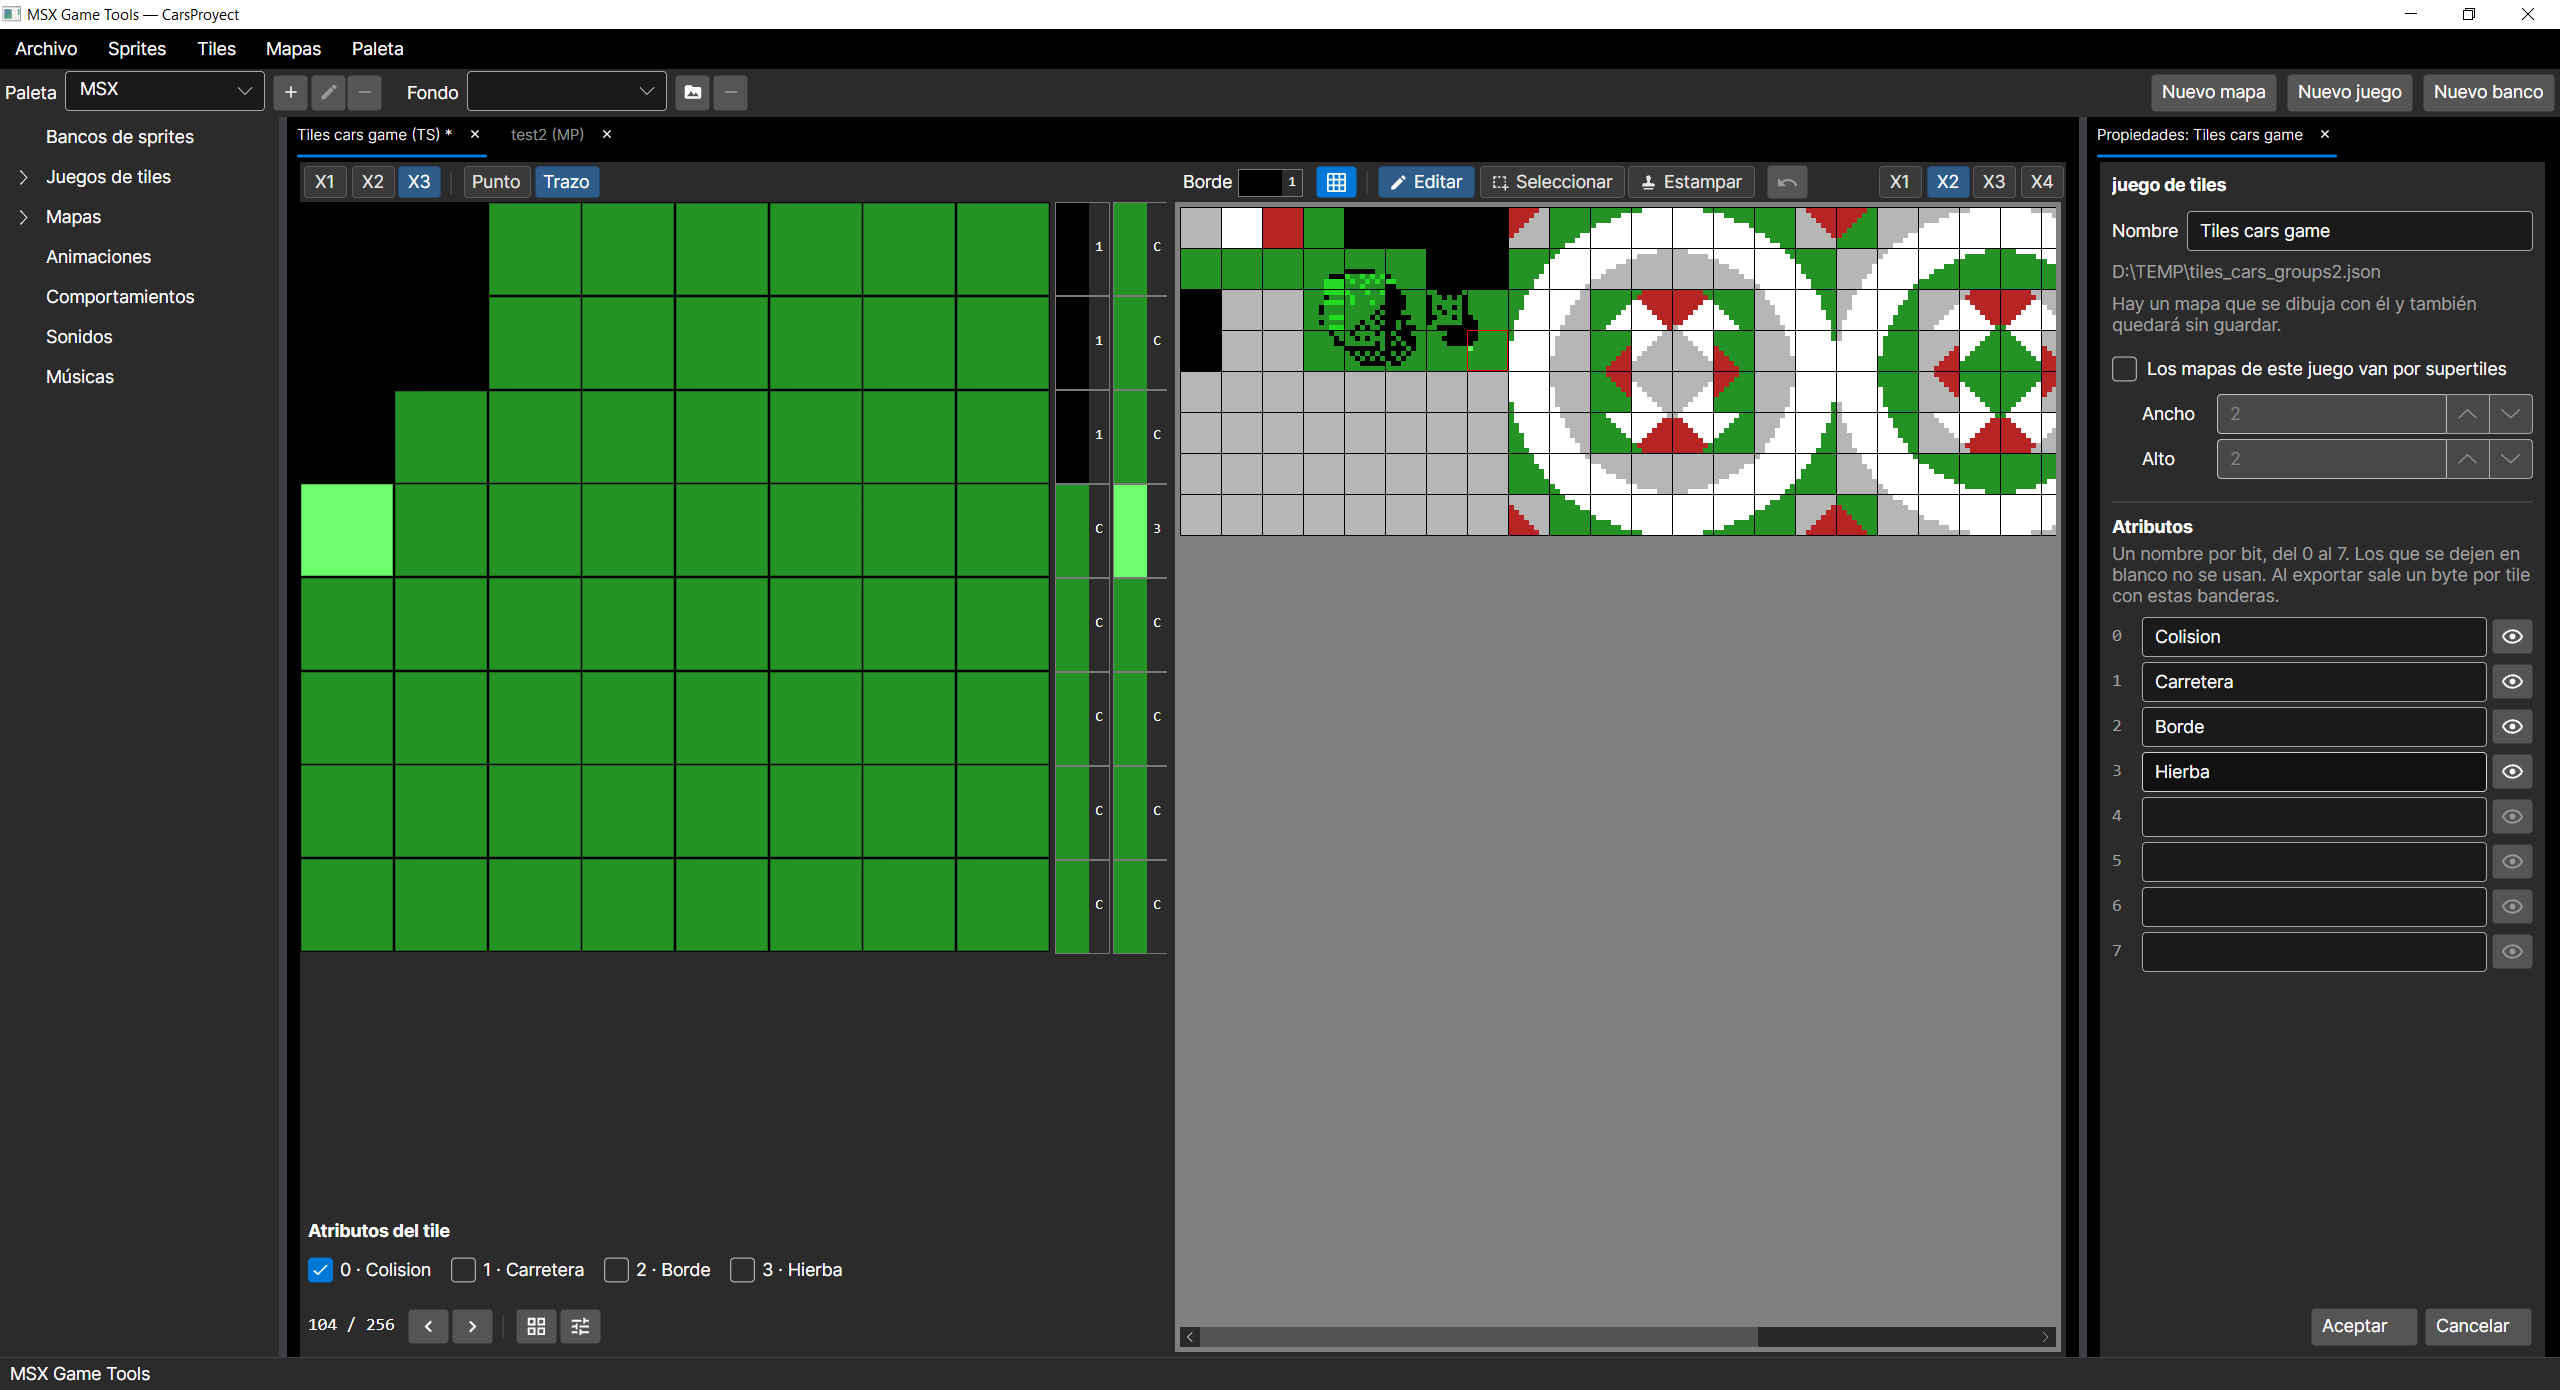
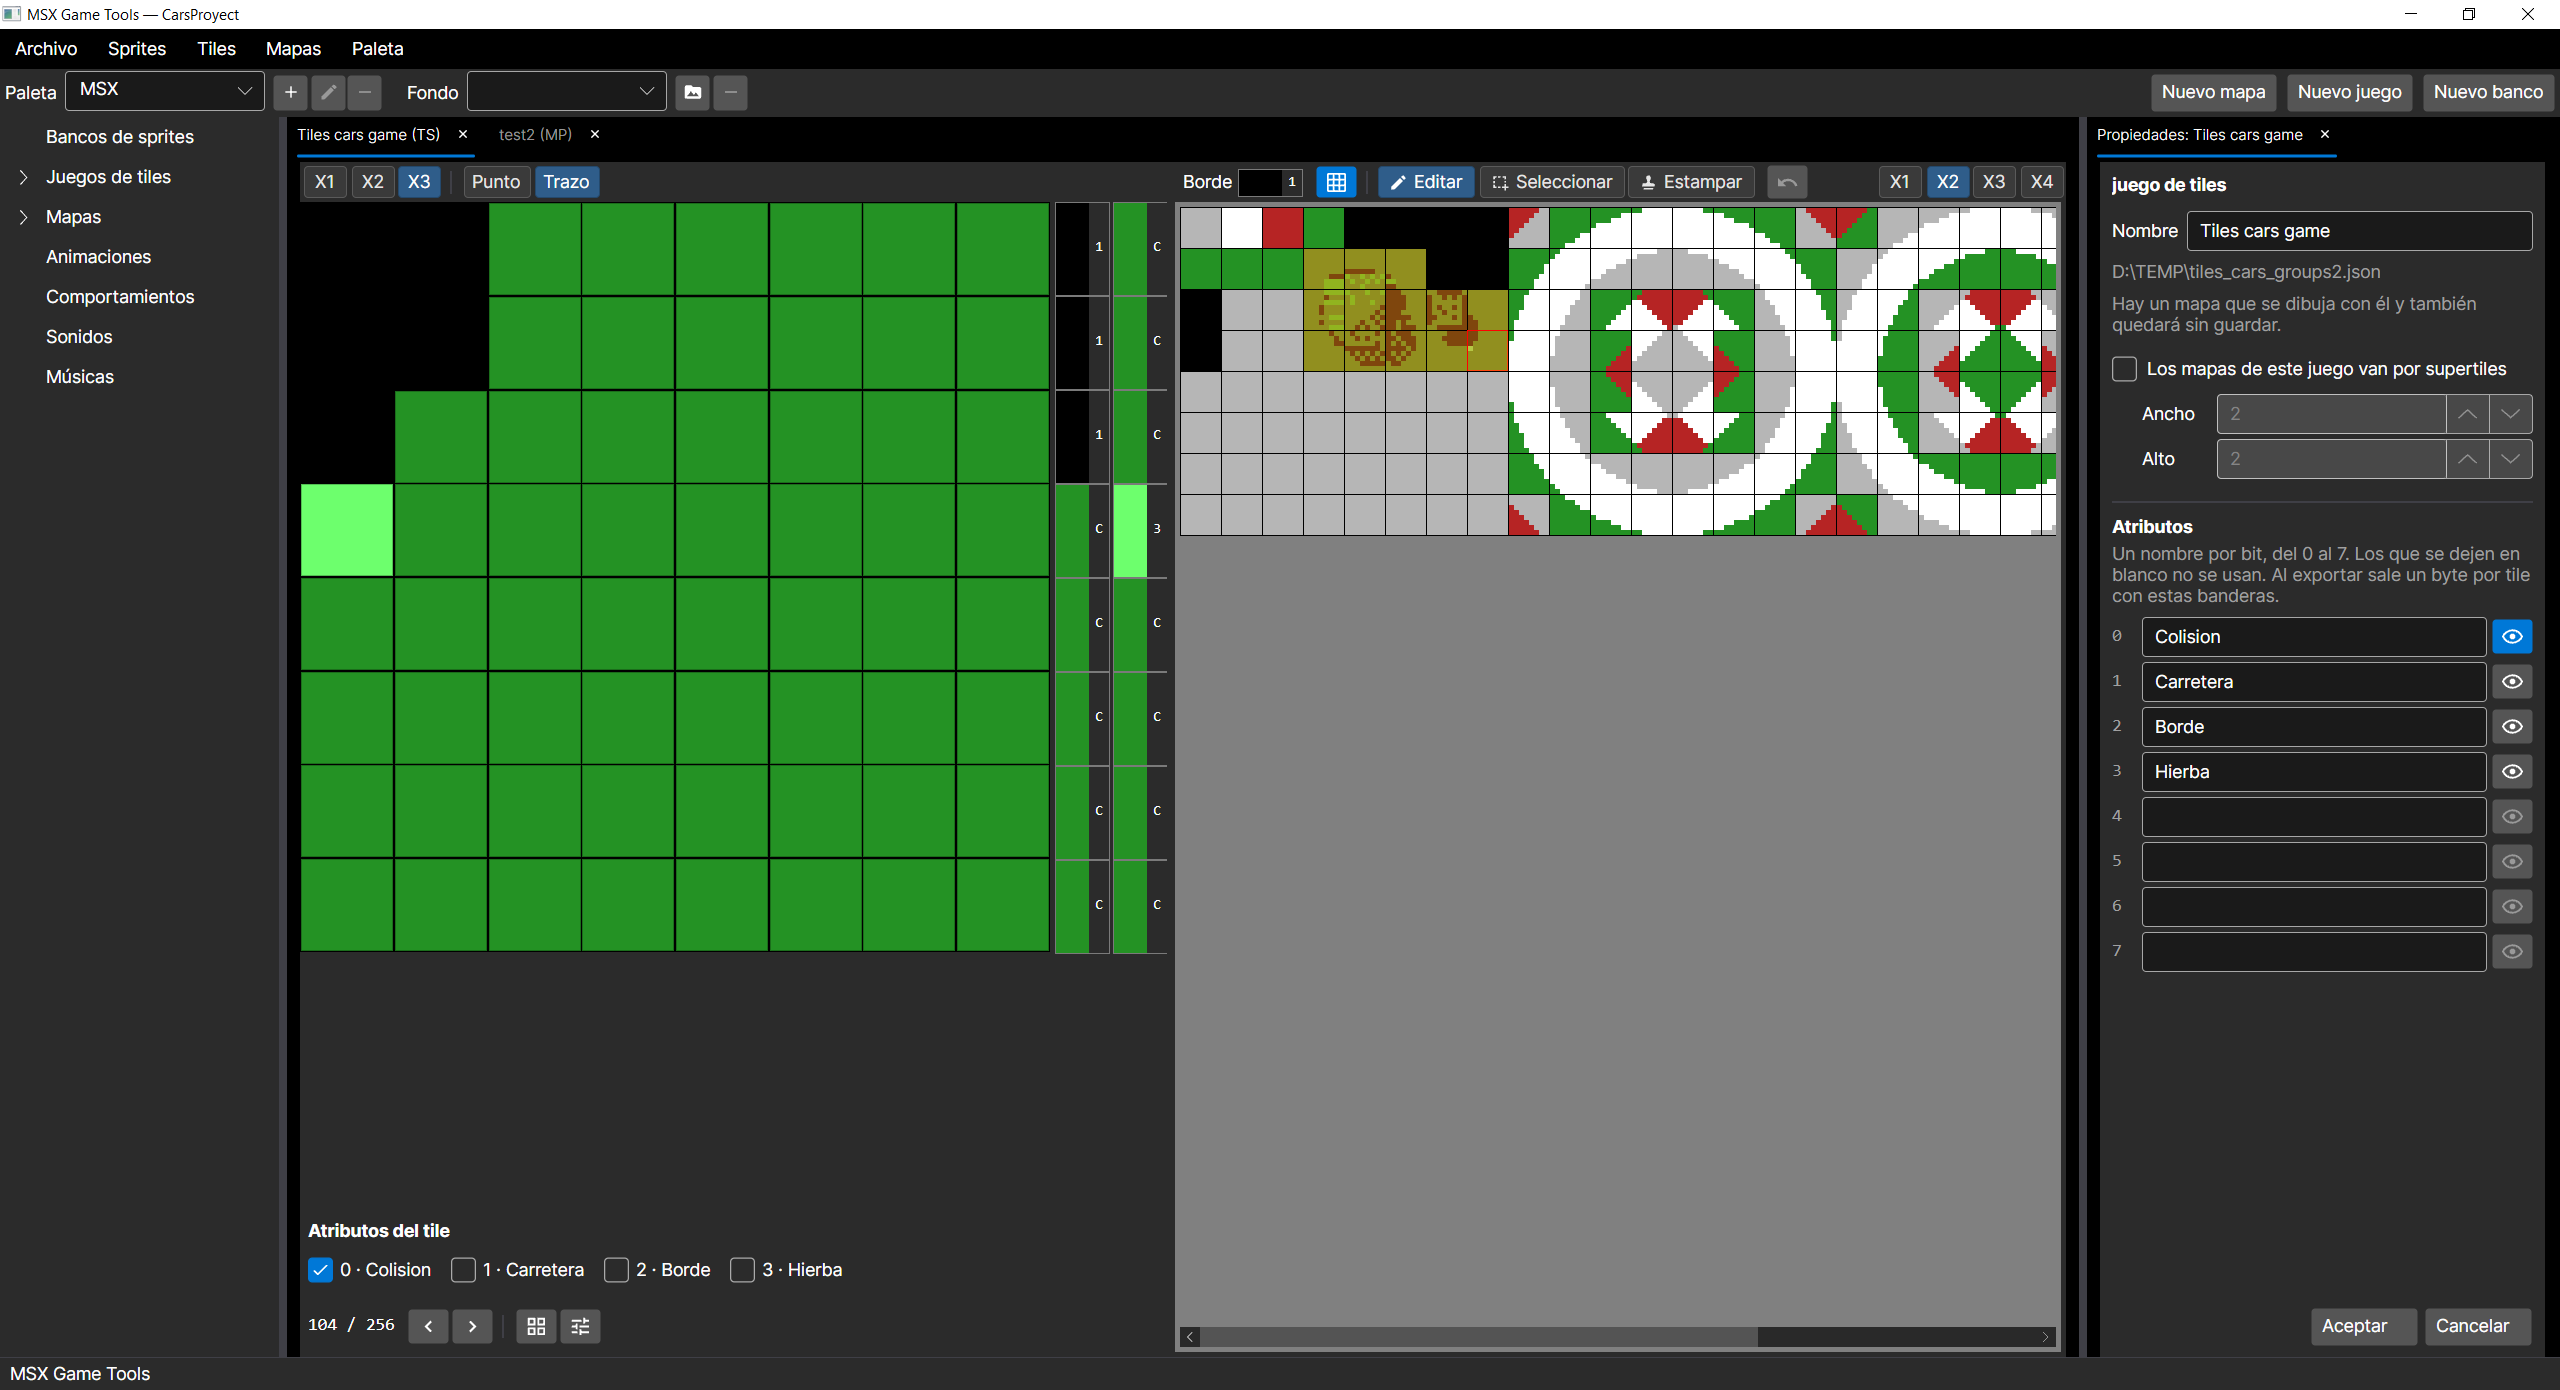
La captura de tiles, repetida y con el ojo encendido
La anterior salio con dos ventanas superpuestas. Esta ademas enseña el ojo
encendido y dos tiles teñidos, que es la parte de los atributos que no se
entiende leyendola.

El pie lo cuenta en los dos idiomas, y dice que los teñidos son los marcados
como colision. Antes el ingles decia "the two road tiles", que describia como
se ven y no por que estan teñidos, que es justo lo que la imagen explica.

Changed region(s): [[0.5, 0.1547, 0.5938, 0.2784], [0.9688, 0.4331, 1.0, 0.495], [0.1875, 0.0928, 0.2188, 0.1237]]

diff --git a/README.en.md b/README.en.md
@@ -25,9 +25,9 @@ CC bit, and the composed group is shown on the right.
 ### Tile sets
 
 The tile magnified on the left, all 256 in their 32-column grid, and the set's properties
-on the right with its **attributes**. The eye next to an attribute tints the tiles that
-already have it set — here the two road tiles. Under the canvas, the flags of the tile
-being edited.
+on the right with its **attributes**. An attribute's eye tints the tiles that already have
+it set —here the two marked as collision— to spot them all at once instead of opening them
+one by one. Under the canvas, the flags of the tile being edited.
 
 ![Tile set editor](Screenshots/en_TileEditor.png)
 

diff --git a/README.md b/README.md
@@ -25,8 +25,9 @@ bit CC del V9938, y a la derecha se ve el grupo compuesto.
 ### Juegos de tiles
 
 El tile ampliado a la izquierda, los 256 en su rejilla de 32 columnas, y a la derecha las
-propiedades del juego con los **atributos** definidos. Abajo del lienzo, las banderas del
-tile que se está editando.
+propiedades del juego con sus **atributos**. El ojo de un atributo tiñe los tiles que ya
+lo tienen puesto —aquí los dos marcados como colisión—, para verlos de golpe en vez de ir
+abriéndolos uno a uno. Abajo del lienzo, las banderas del tile que se está editando.
 
 ![Editor de tiles](Screenshots/TileEditor.png)
 
